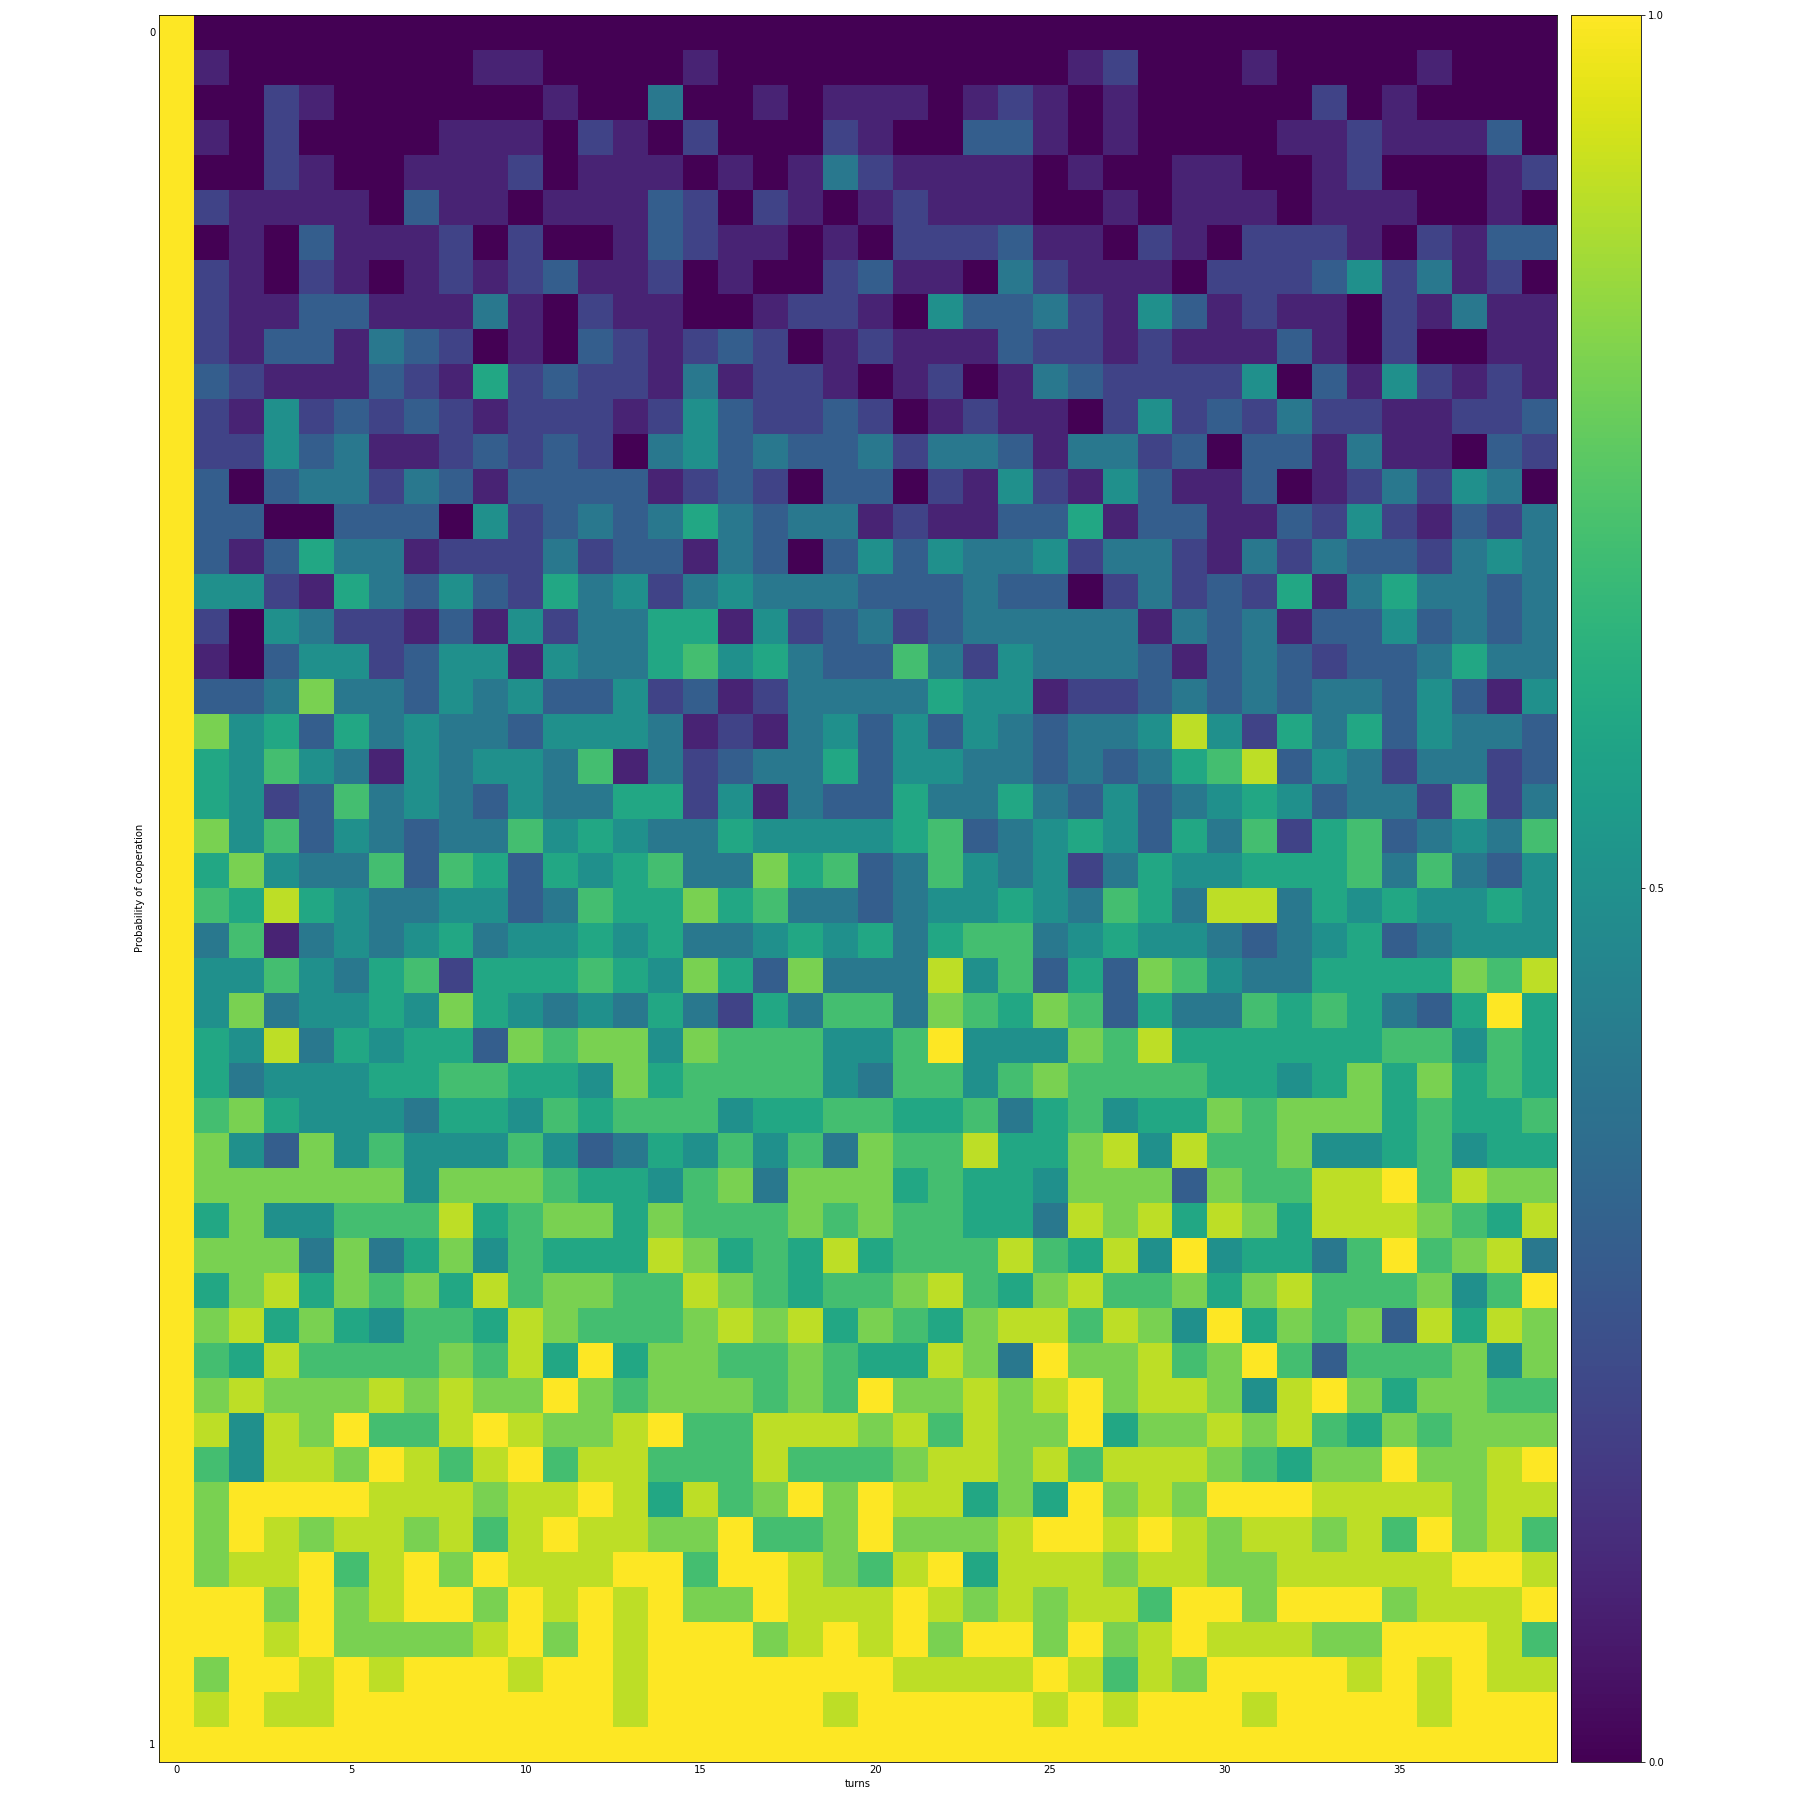
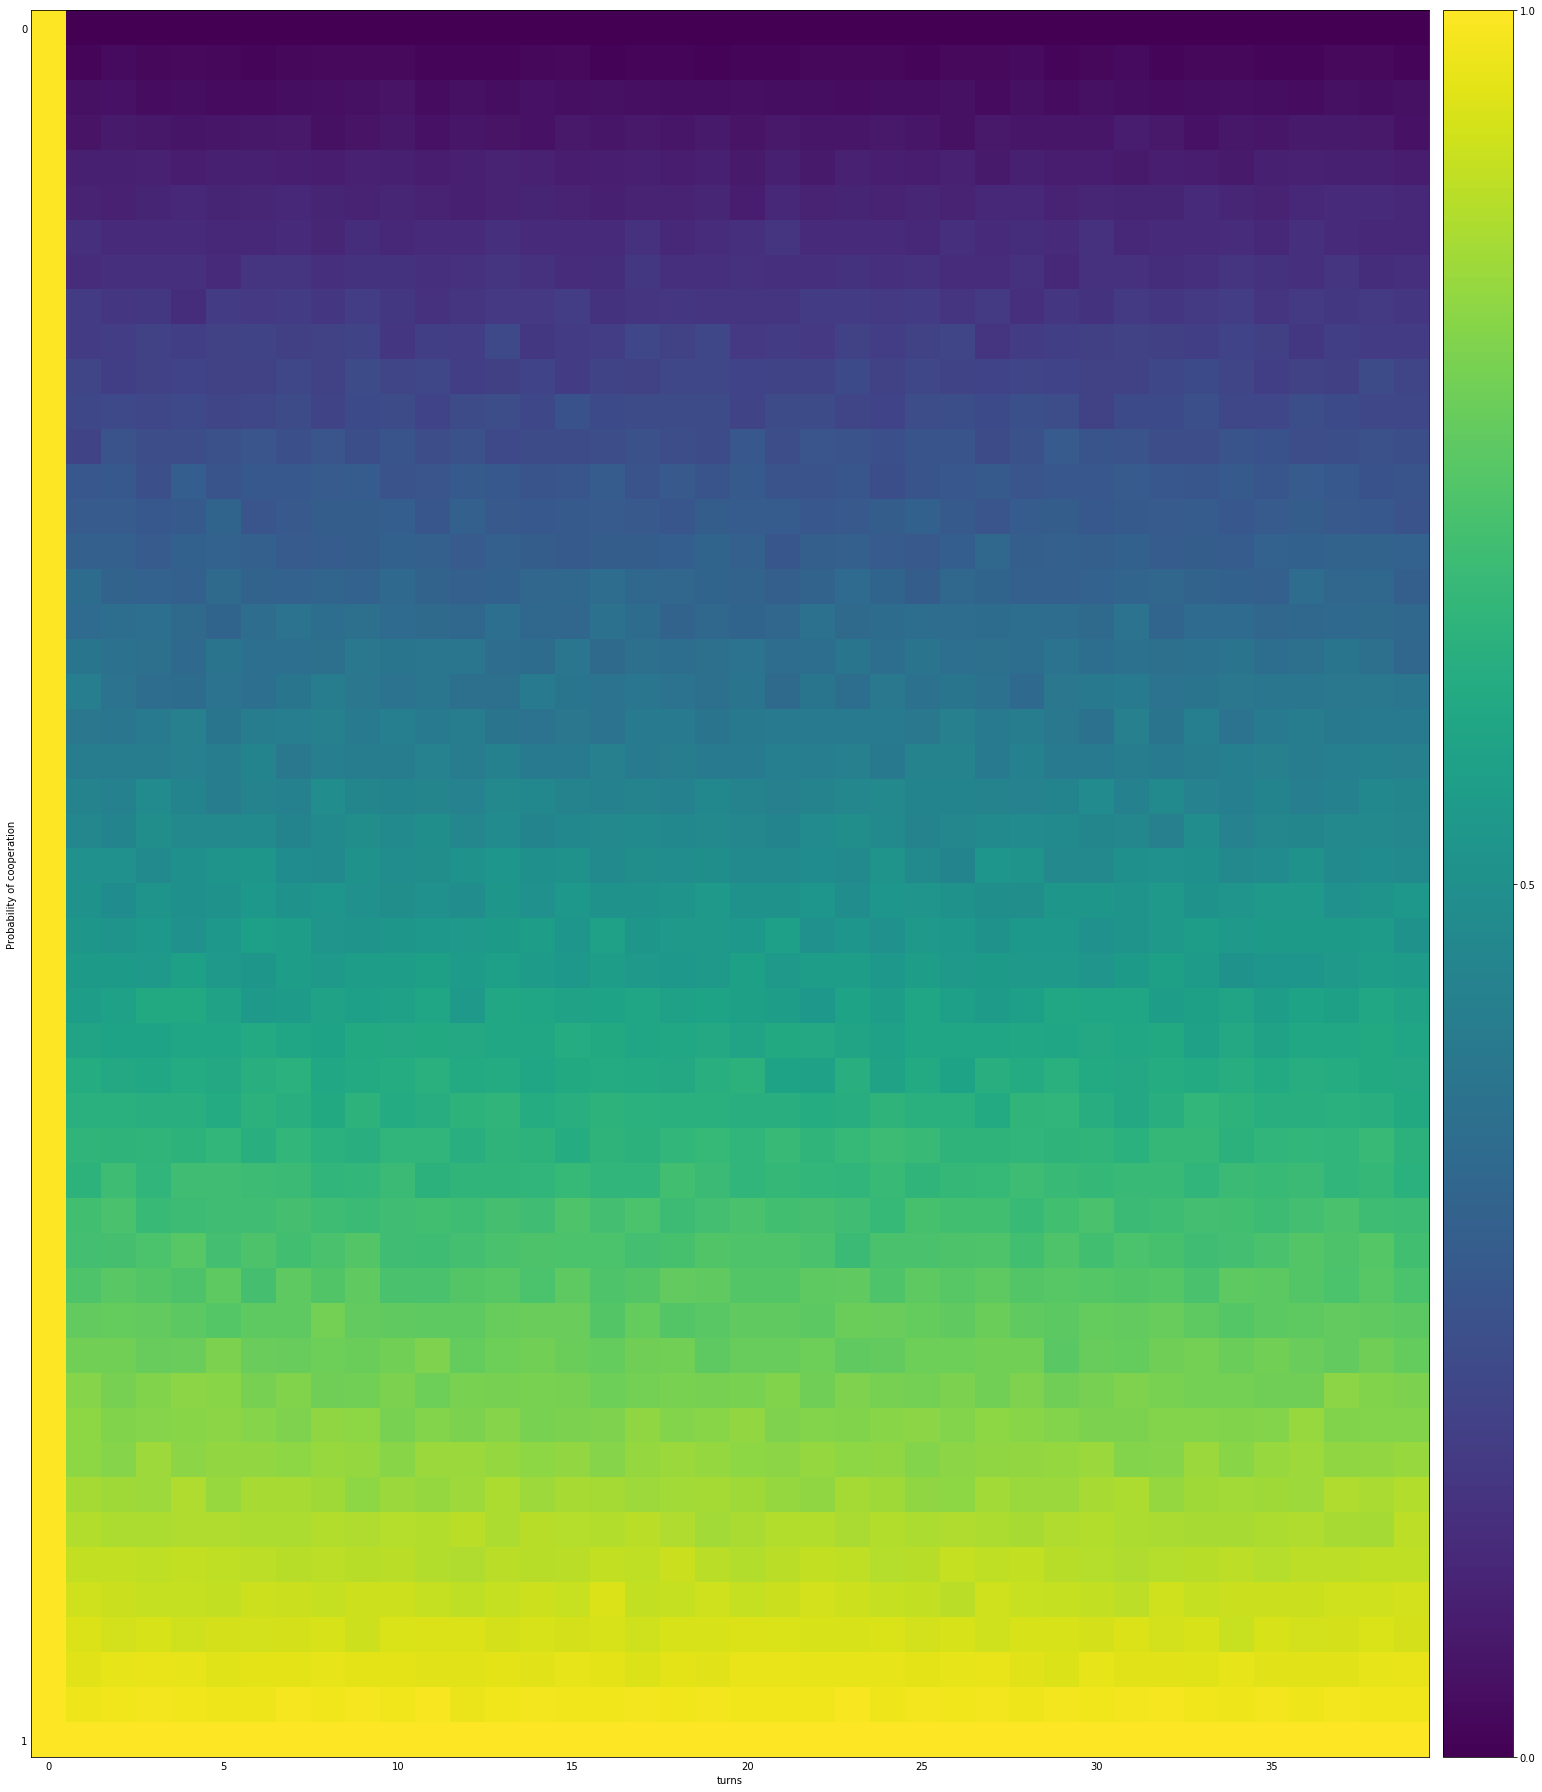
Change default repetitions to 1000.

diff --git a/axelrod/fingerprint.py b/axelrod/fingerprint.py
@@ -407,7 +407,7 @@ class TransitiveFingerprint(object):
         else:
             self.opponents = opponents
 
-    def fingerprint(self, turns: int = 50, repetitions: int = 10,
+    def fingerprint(self, turns: int = 50, repetitions: int = 1000,
                     noise: float = None, processes: int = None,
                     filename: str = None,
                     progress_bar: bool = True) -> np.array:
